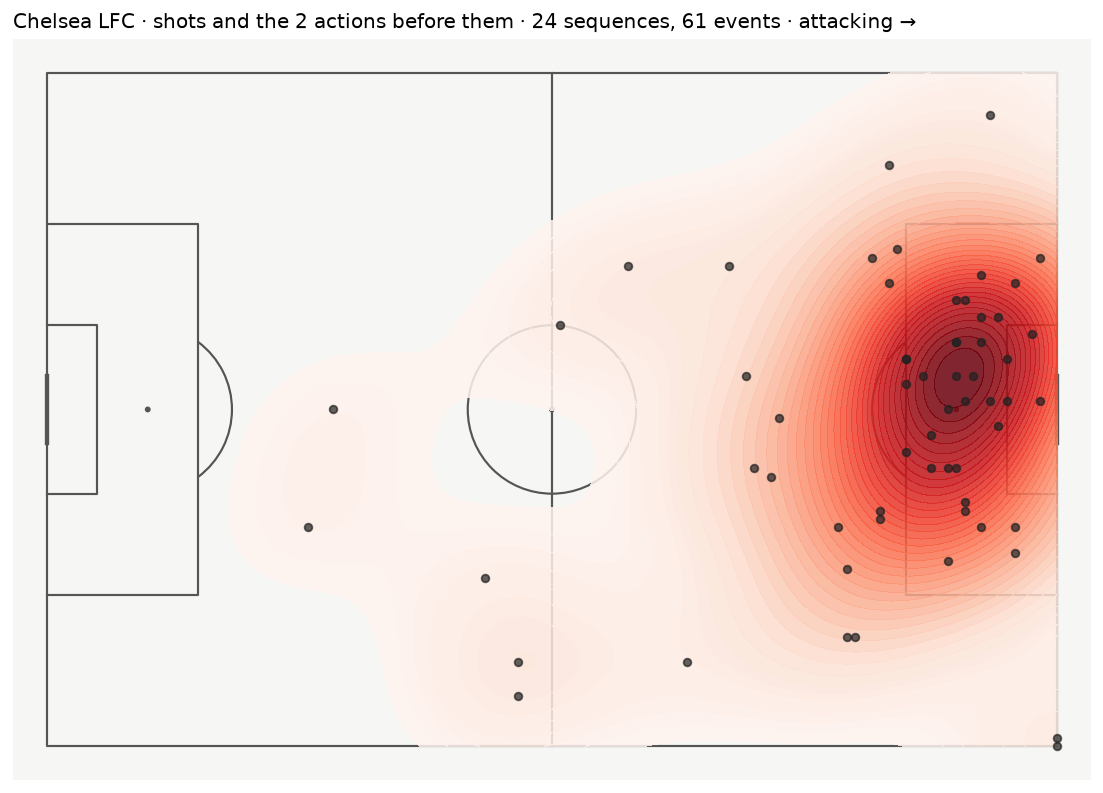
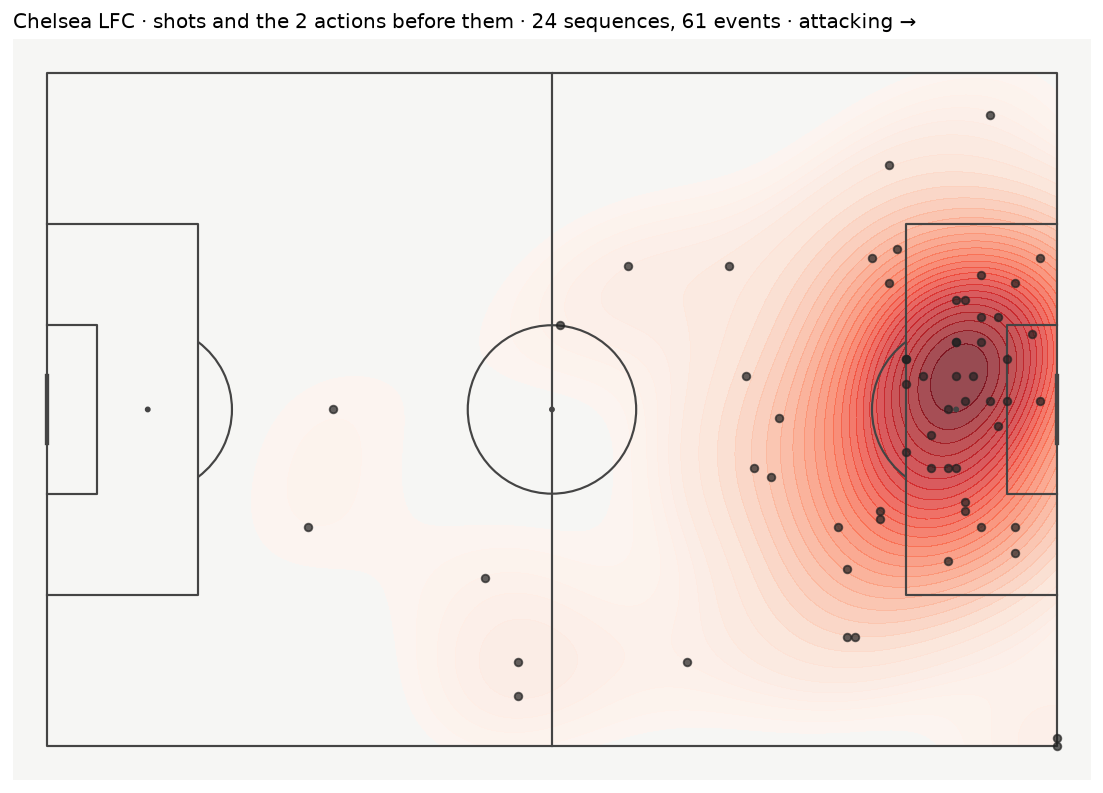
Heatmaps: draw pitch lines above the KDE fill, lighter fill

Changed region(s): [[0.709, 0.2724, 0.9864, 0.7566], [0.4624, 0.3934, 0.524, 0.4237], [0.4316, 0.4237, 0.4624, 0.454]]

diff --git a/src/footviz/plots.py b/src/footviz/plots.py
@@ -19,8 +19,9 @@ TEAM_COLOURS = ("#1f77b4", "#d62728")
 OUTCOME_MARKERS = {"Goal": ("*", 420), "Saved": ("o", 160), "Blocked": ("X", 160),
                    "Off T": ("s", 130), "Post": ("P", 160), "Wayward": ("s", 130),
                    "Saved Off Target": ("o", 160), "Saved to Post": ("o", 160)}
-PITCH_KW = dict(pitch_type="statsbomb", pitch_color="#f6f6f4", line_color="#555555",
-                linewidth=1.2)
+PITCH_KW = dict(pitch_type="statsbomb", pitch_color="#f6f6f4", line_color="#444444",
+                linewidth=1.2, line_zorder=2)
+KDE_KW = dict(fill=True, levels=30, thresh=0.05, cmap="Reds", alpha=0.7, zorder=1)
 
 
 def _pitch(**kw) -> tuple[Pitch, Figure, plt.Axes]:
@@ -54,8 +55,7 @@ def action_heatmap(match: Match, player: str, action: str) -> Figure:
     df = match.player_actions(player, action)
     pitch, fig, ax = _pitch()
     if len(df) >= 3:
-        pitch.kdeplot(df.x, df.y, ax=ax, fill=True, levels=40, thresh=0.03, cmap="Reds",
-                      alpha=0.85, zorder=1)
+        pitch.kdeplot(df.x, df.y, ax=ax, **KDE_KW)
     pitch.scatter(df.x, df.y, ax=ax, s=18, color="#222222", alpha=0.7, zorder=3)
     team = next((t for t in match.teams if match.jersey(t, player) is not None), "")
     ax.set_title(f"{player} ({team}) · {action} · {len(df)} events · attacking →",
@@ -179,7 +179,7 @@ def key_actions_heatmap(match: Match, team: str, sequences: list[ShotSequence],
             ys.append(a.y)
     pitch, fig, ax = _pitch()
     if len(xs) >= 3:
-        pitch.kdeplot(xs, ys, ax=ax, fill=True, levels=40, thresh=0.03, cmap="Reds", alpha=0.85)
+        pitch.kdeplot(xs, ys, ax=ax, **KDE_KW)
     pitch.scatter(xs, ys, ax=ax, s=18, color="#222222", alpha=0.7, zorder=3)
     n_seq = sum(s.team == team for s in sequences)
     ax.set_title(f"{team} · shots and the {last_n} actions before them · {n_seq} sequences, "
